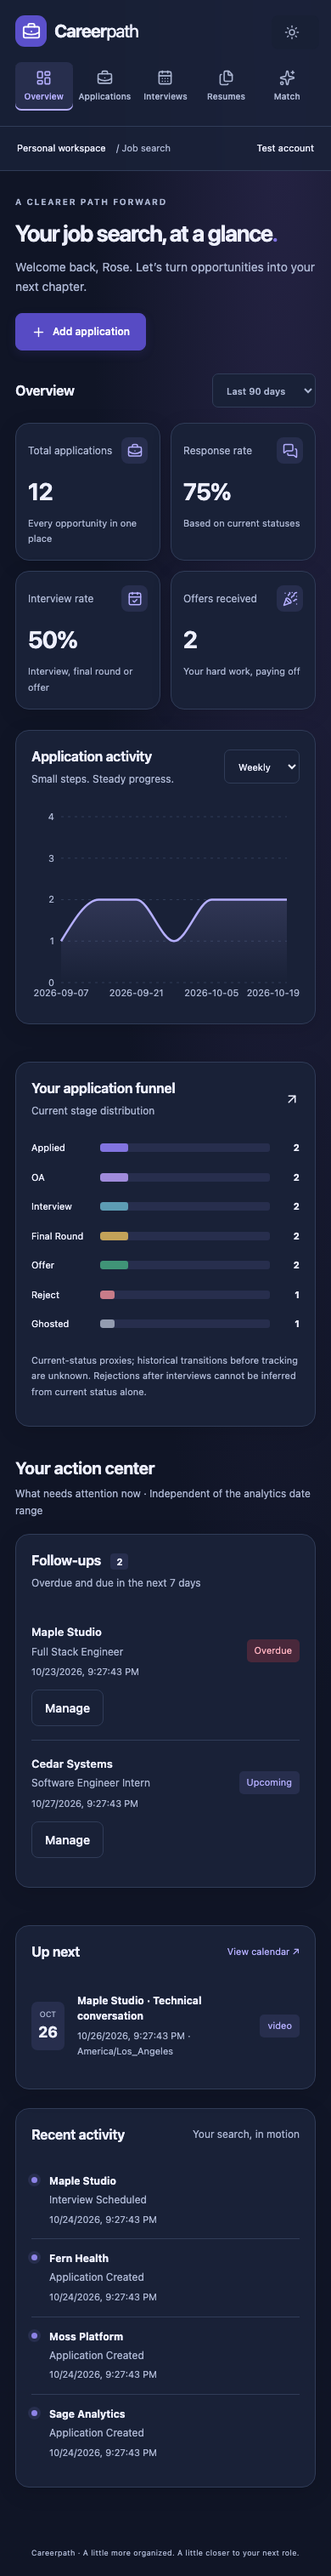
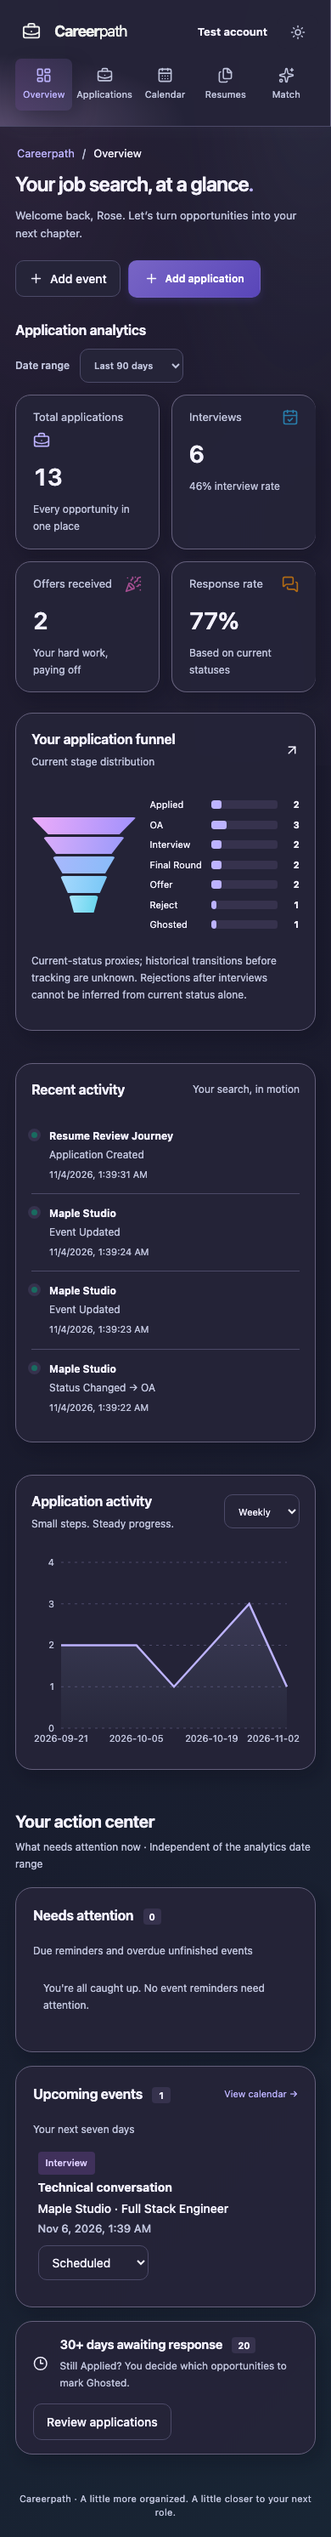
update readme

diff --git a/README.md b/README.md
@@ -1,28 +1,27 @@
 # Interview Tracker · Careerpath
 
-A full-stack job-search workspace for organizing applications, preparing for interviews, and understanding recruiting progress. Built with React, TypeScript, Express, PostgreSQL, Prisma, Clerk and AWS integrations.
+A full-stack job-search workspace for organizing applications, preparing for interviews, and understanding recruiting progress. Built with React, TypeScript, Express, PostgreSQL, Prisma, Clerk and private Vercel Blob storage.
 
-The upgrade preserves the existing application's data model and resume object keys. It adds validated, user-scoped APIs, a responsive dashboard, structured activity history, shared calendar events, dashboard reminders, and evidence-linked resume matching.
+## Screenshots
+
+The current workspace shown with synthetic browser-test data.
+
+![Careerpath desktop Overview in light mode with pastel backgrounds, an application funnel, and the account button at the bottom of the sidebar](docs/screenshots/dashboard-desktop.png)
+
+![Careerpath mobile Overview in dark mode](docs/screenshots/dashboard-mobile.png)
 
 ## Features
 
-- **Workspace:** indigo/lavender light theme, navy dark theme, frosted navigation, readable content cards, responsive application cards and accessible dialogs.
-- **Dashboard:** date filters, totals for all seven statuses, weekly/monthly trends, current-stage distribution, explicitly labeled status-based response/interview rate proxies, upcoming events, needs-attention reminders, linked recent activity and a manual 30-day Applied review. Totals/offers/stages open filtered applications while preserving the analytics date range. Statistics come from the signed-in user's database records.
+- **Workspace:** soft pink, lavender and blue gradients in light mode, with a dark theme and responsive layouts. On desktop, the collapse button sits beside the Careerpath logo, the account button sits at the bottom of the sidebar, and a transparent Careerpath breadcrumb replaces the top banner. Navigation and Match history can collapse independently.
+- **Overview:** total applications, interviews, offers and response rate appear first. The application funnel sits beside recent activity on desktop, with weekly/monthly trends and the action center below. The interview count and rate use current application stages. Totals, offers and funnel stages open filtered applications while preserving the analytics date range. Reminders and manual 30-day review stay independent of that range.
 - **Applications:** create, edit, detail and delete; company/role search; location/status/date filters; sorting; 10 rows per page; notes, salary, HTTP(S) job links, resume selection and event scheduling; quick status updates, removable filter chips and reset filters. Search remains synchronized with browser history.
 - **CSV:** transactional imports of up to 500 rows and filtered exports of up to 10,000 rows; invalid batches fail without partial imports; formula-leading export cells are escaped.
-- **Resume library:** named PDFs, 4 MB upload limit, private S3/Blob storage, one-minute downloads and ownership checks. Each resume opens a job-specific review with an extracted-text preview. Legacy object keys remain unchanged.
+- **Resume library:** named PDFs, 4 MB upload limit, private S3/Blob storage, one-minute downloads and ownership checks. Each resume opens a job-specific review with an optional extracted-text preview. Legacy object keys remain unchanged.
 - **Resume match:** free rule-based reviews from an uploaded PDF or pasted text; editable keyword/manual checklists, common aliases, exact evidence excerpts, conditional bullet-editing prompts and printable saved reports. Optionally link to an application and reuse its job description. No AI-provider calls, fabricated achievements, ATS scores or hiring predictions. See [review workflow](docs/RESUME_REVIEW.md).
 - **Calendar:** OA, Interview and Other events, with optional application links; timed events in the viewer's local zone and all-day deadlines that keep their saved date; editing, rescheduling, completion and cancellation through one shared form.
 - **Dashboard reminders:** one day, one hour, 15 minutes or None. Upcoming events cover seven days; Needs attention includes due reminders and overdue unfinished events regardless of analytics dates. No delivery service or worker is needed; open the app to see reminders.
 - **30-day review:** select eligible Applied applications manually, ten per page. The server rechecks ownership, age and current status before marking selected records Ghosted and recording activity.
 - **UI:** reusable dialogs, native focus handling, labeled inputs, responsive navigation, light/dark mode, toast feedback, skeletons, actionable empty/error states and delete confirmation.
-
-## Screenshots
-
-Screenshots below show the previous release. Current review screenshots are generated under `test-results/preview` from isolated browser-test records.
-
-![Desktop overview](docs/screenshots/dashboard-desktop.png)
-![Mobile overview](docs/screenshots/dashboard-mobile.png)
 
 ## Storage cutover
 
@@ -37,7 +36,8 @@ flowchart LR
   Browser[React SPA] -->|Fresh Clerk bearer token| API[Express REST API]
   Browser --> Clerk[Clerk authentication]
   API -->|Verified identity + owner filters| DB[(PostgreSQL / Prisma)]
-  API -->|Private PDF objects| S3[AWS S3]
+  API -->|Private PDF objects| Blob[Vercel Blob]
+  API -->|Legacy PDF reads| S3[AWS S3]
   API --> Extract[Bounded PDF parsing worker]
   Extract --> Match[Free evidence and bullet checks]
 ```
